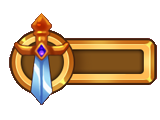
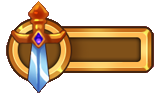
resize dragon info modal

diff --git a/src/components/Header/DragonInfoModal.tsx b/src/components/Header/DragonInfoModal.tsx
@@ -53,7 +53,7 @@ const DragonInfoModal = ({
         top: '50%',
         left: '50%',
         transform: 'translate(-50%, -50%)',
-        width: '550px',
+        width: '580px',
         height: '600px',
         background: "url(/assets/images/set2.png)",
         backgroundSize: '100% 100%',
@@ -113,8 +113,8 @@ const DragonInfoModal = ({
                                     letterSpacing: '2px',
                                     textShadow: '0 0 3px black, 0 0 3px black',
                                     position: 'absolute',
-                                    top: '94px',
-                                    left: '260px'
+                                    top: '98px',
+                                    left: '270px'
                                 }}
                             >
                                 {dragonInfo.rarity}%
@@ -124,8 +124,8 @@ const DragonInfoModal = ({
                                     height: '26px', width: "20px",
                                     borderLeft: '3px solid black',
                                     position: 'absolute',
-                                    top: '94px',
-                                    right: '128px'
+                                    top: '99px',
+                                    right: '144px'
                                 }}
                                 onClick={() => meat === 0 ? alert("Not Enough Meat") : setMeatModalOpen(true)}
                             >
@@ -135,9 +135,9 @@ const DragonInfoModal = ({
                         <img alt="" src={`assets/images/dragons/${dragonInfo.dragonName}_dragon_avatar.png`} width={'250px'} />
                         <div
                             style={{
-                                width: '150px', height: '90px',
+                                width: '160px', height: '85px',
                                 backgroundImage: `url('/assets/images/dam_bg.png')`,
-                                backgroundSize: 'cover',
+                                backgroundSize: '100% 100%',
                                 marginRight: '90px'
                             }}
                         >
@@ -147,8 +147,8 @@ const DragonInfoModal = ({
                                     fontFamily: 'CubicPixel',
                                     fontSize: '22px',
                                     position: 'absolute',
-                                    bottom: '152px',
-                                    right: '266px'
+                                    bottom: '160px',
+                                    right: '285px'
                                 }}
                             >
                                 {/* {dragonInfo.damage} */}
@@ -157,10 +157,10 @@ const DragonInfoModal = ({
                         </div>
                         <div
                             style={{
-                                width: '150px', height: '90px',
+                                width: '160px', height: '85px',
                                 backgroundImage: `url('/assets/images/health_bg.png')`,
-                                backgroundSize: 'cover',
-                                marginRight: '83px'
+                                backgroundSize: '100% 100%',
+                                marginRight: '90px'
                             }}
                         >
                             <p
@@ -169,8 +169,8 @@ const DragonInfoModal = ({
                                     fontFamily: 'CubicPixel',
                                     fontSize: '22px',
                                     position: 'absolute',
-                                    bottom: '66px',
-                                    right: '266px'
+                                    bottom: '80px',
+                                    right: '285px'
                                 }}
                             >
                                 {/* {dragonInfo.hp} */}
